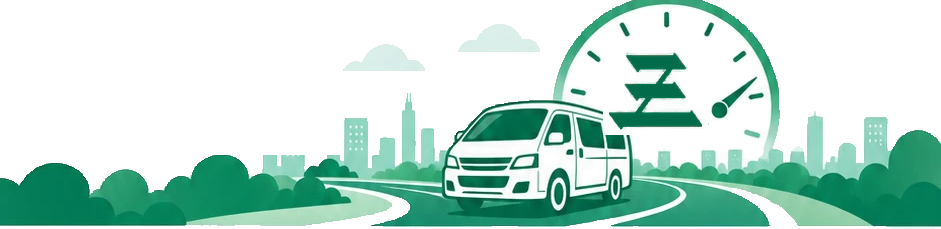
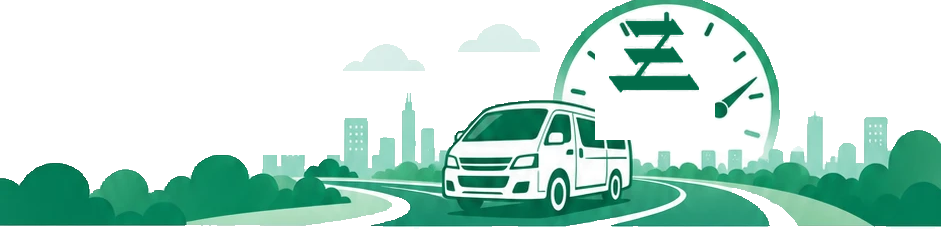
記録一覧のロゴが車と重なっていたのを修正
矩形の消去自体は問題なく、単にマークの配置位置が車の屋根と
かぶっていただけだった。メーター上部の空いているスペースに
配置し直した。

Changed region(s): [[0.6164, 0.0611, 0.7705, 0.6114]]

diff --git a/index.html b/index.html
@@ -16,7 +16,7 @@
 <body>
 
 <div id="loadingView" class="loadingView">
-  <img src="hero-illustration.png?v=15" class="loadingHeroImg" alt="">
+  <img src="hero-illustration.png?v=16" class="loadingHeroImg" alt="">
   <div class="loadingTitle">走行距離メモ</div>
   <div id="loadingSpinner" class="spinner"></div>
   <div id="loadingText" class="loadingText">読み込み中...</div>
@@ -25,8 +25,8 @@
 <div id="homeView" class="view" hidden>
   <header class="homeHeader">
     <div class="homeLogoWrap">
-      <img src="logo-lockup.png?v=15" class="homeLogoLockup logoLight" alt="走行記録">
-      <img src="logo-lockup-dark.png?v=15" class="homeLogoLockup logoDark" alt="走行記録">
+      <img src="logo-lockup.png?v=16" class="homeLogoLockup logoLight" alt="走行記録">
+      <img src="logo-lockup-dark.png?v=16" class="homeLogoLockup logoDark" alt="走行記録">
     </div>
     <div class="homeHeaderActions">
       <button id="themeToggleBtn" class="navBtn" aria-label="テーマ切替"></button>
@@ -34,7 +34,7 @@
   </header>
 
   <div class="homeBody">
-    <img src="hero-illustration.png?v=15" class="homeHeroImg" alt="">
+    <img src="hero-illustration.png?v=16" class="homeHeroImg" alt="">
 
     <div class="homeStats">
       <div class="homeStatCard">
@@ -93,7 +93,7 @@
   </header>
 
   <div class="listHero">
-    <img src="detail-hero.png?v=15" class="listHeroImg" alt="">
+    <img src="detail-hero.png?v=16" class="listHeroImg" alt="">
   </div>
 
   <div class="periodNavBar">
@@ -242,7 +242,7 @@
   </header>
 
   <div class="listHero">
-    <img src="detail-hero.png?v=15" class="listHeroImg" alt="">
+    <img src="detail-hero.png?v=16" class="listHeroImg" alt="">
   </div>
 
   <div class="detailBody">
@@ -341,6 +341,6 @@
   </div>
 </div>
 
-<script src="app.js?v=15"></script>
+<script src="app.js?v=16"></script>
 </body>
 </html>

diff --git a/app.js b/app.js
@@ -2,7 +2,7 @@
 
 // index.htmlのapp.js/style.css読み込み時の?v=番号と合わせて手動更新する
 // (実際にこのapp.jsが読み込まれて実行された、という一番確実な証拠になる)
-const APP_VERSION = 15;
+const APP_VERSION = 16;
 
 /* ---------- アイコン ---------- */
 
